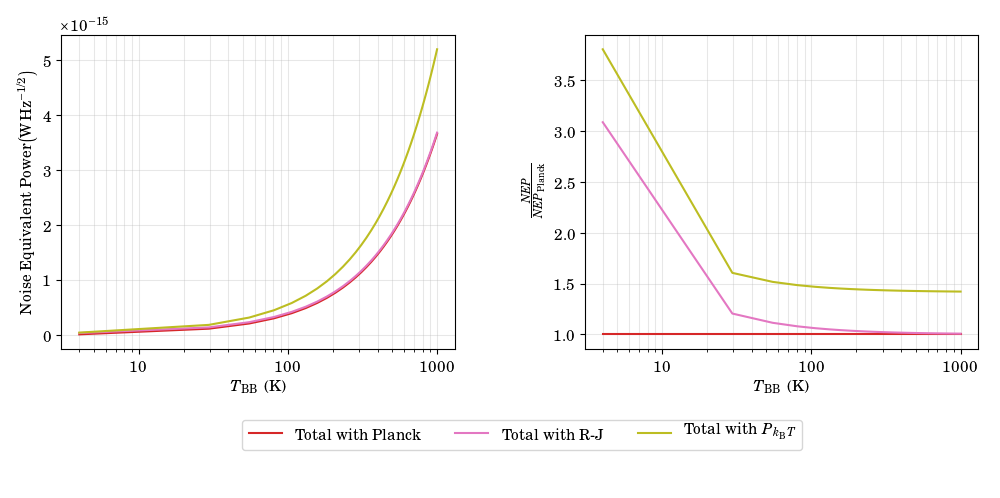
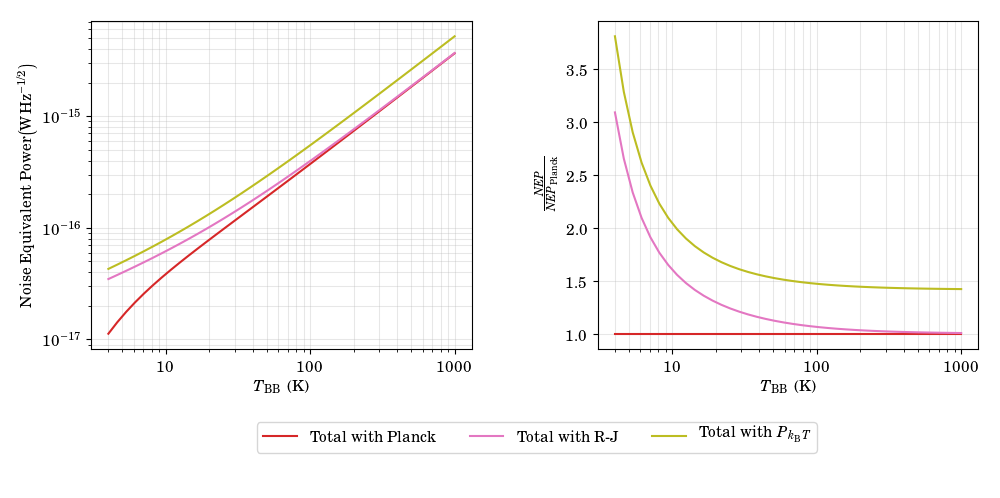
Update noise example
Use log spaced temperatures as I'm using a log x axis. Minor tweaks too

diff --git a/docs/spectrum.md b/docs/spectrum.md
@@ -137,7 +137,7 @@ we also consider the bandwidth calculated using the full width at quarter the
 maximum value (FWQM) which gives a value of 50&nbsp;GHz.
 
 <img className='darkInvert image--center'
-     alt='Comparision of various methors of approximating the in-band power
+     alt='Comparison of various methors of approximating the in-band power
           compared to the Planck function'
      src={useBaseUrl('img/power_approximations.png')} /><br />
 
@@ -168,7 +168,6 @@ def RJ(nu, T):
 kb = 1.380649E-23  # J/K
 
 # Define the bandwidths
-
 bwHM_idx = np.where(specFTSBBNorm[idxs] > np.max(specFTSBBNorm[idxs])/2)[0]
 bwHM = (freqFTS[idxs][bwHM_idx[-1]] - freqFTS[idxs][bwHM_idx[1]])
 

diff --git a/docs/noiseSources.md b/docs/noiseSources.md
@@ -97,7 +97,7 @@ def NEPphoton(power, nu, bw, splitout=False):
 nu_cent = np.average(freqFTS[idxs], weights=specFTSBBNorm[idxs])
 
 # Create new array of temperature to explore over larger range
-temps = np.linspace(4, 1000, num=40)
+temps = np.logspace(np.log10(4), np.log10(1000), num=40)
 
 P_planck = np.zeros(len(temps))
 P_RJ = np.zeros(len(temps))
